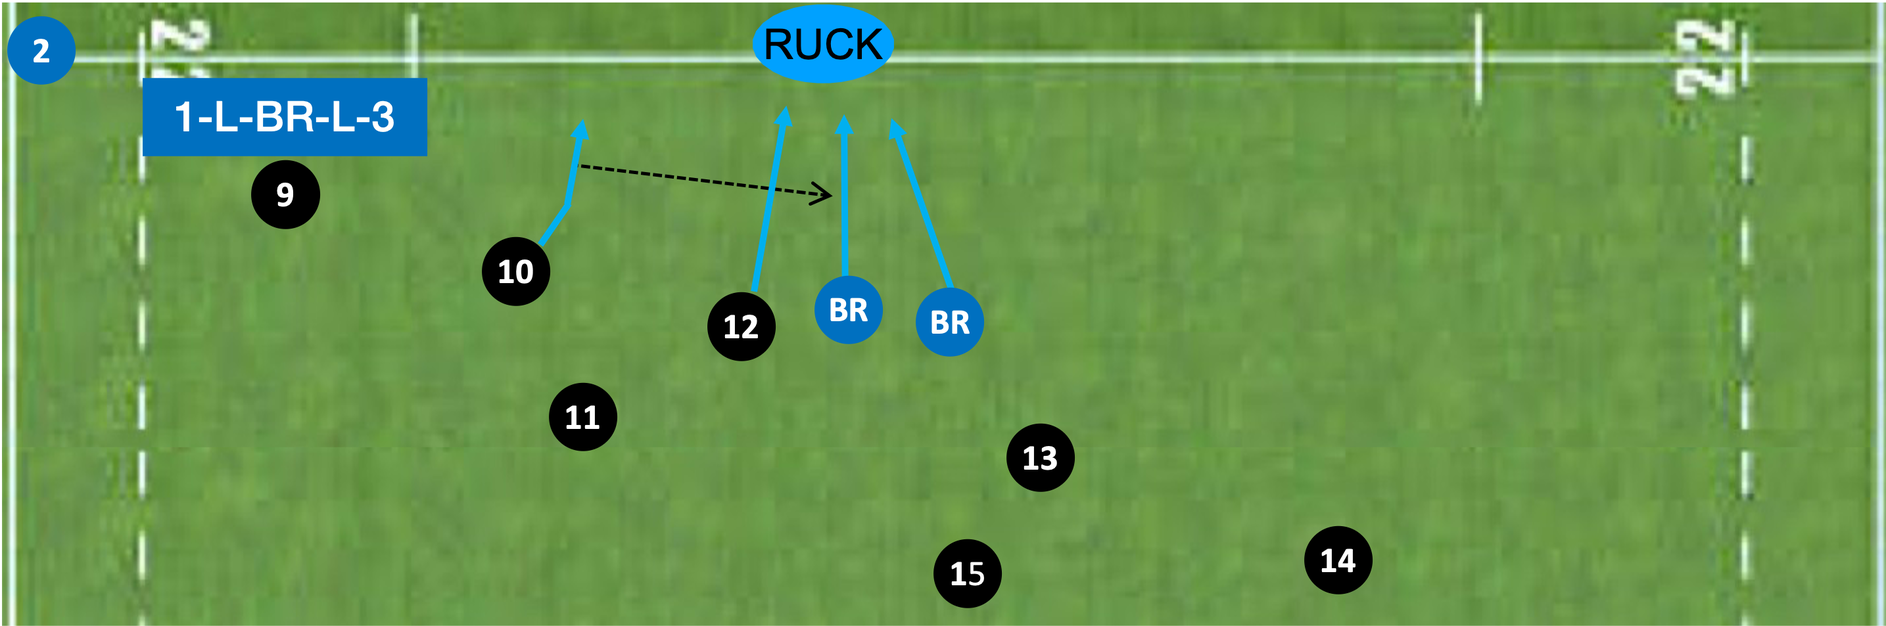
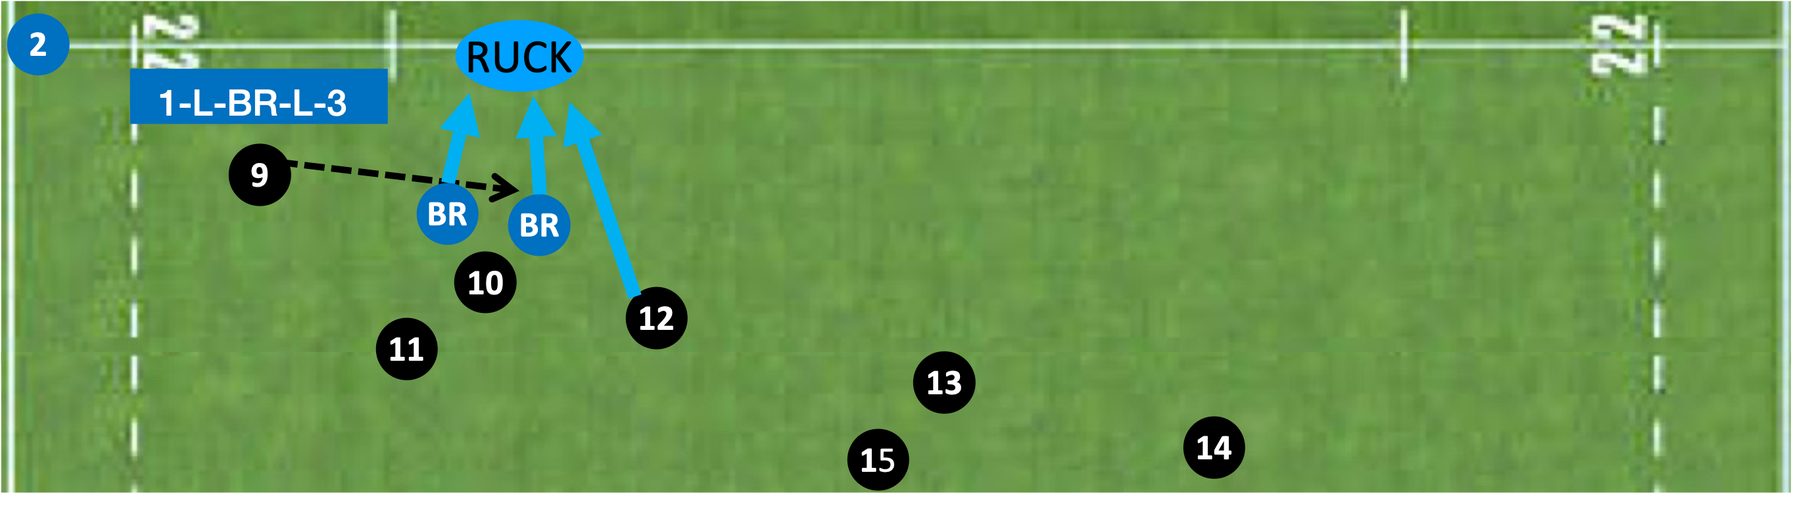
Week 1 Thursday review, the lessons it produced, and the new Rhino diagrams
- Coaches' feedback from Thu 10 Sep into the session's Review.
- Durable delivery lessons into coaching.md, activities.md and blocks.md:
  five-minute pull-out stints, spot-coaching in pairs off a running drill,
  an observing coach as a job, water breaks in the run-sheet, and doing the
  setup and the arguments on the thread before the day.
- New "Initial setup" section: the cone layout as an accordion below
  Logistics, optional, written for the first coach on the ground.
- Completed session plans are the record — improvements go forward only.
- Updated 5-man Rhino phase diagrams; web copies as JPEG (~47 KB) since the
  new artwork is photo-backed and would be ~320 KB as PNG.

diff --git a/tools/build_site.ts b/tools/build_site.ts
@@ -63,9 +63,9 @@ const DIAGRAMS: Record<string, string> = {
   "Hulk": "hulk.png",
   "Eagle": "eagle_kick.png",
   "Hawk — box kick": "hawk_box_kick.png",
-  "5-man Rhino — Phase 1": "5man_rhino_phase1.png",
-  "5-man Rhino — Phase 2": "5man_rhino_phase2.png",
-  "5-man Rhino — Phase 3": "5man_rhino_phase3.png",
+  "5-man Rhino — Phase 1": "5man_rhino_phase1.jpg",
+  "5-man Rhino — Phase 2": "5man_rhino_phase2.jpg",
+  "5-man Rhino — Phase 3": "5man_rhino_phase3.jpg",
 };
 
 /**
@@ -1009,6 +1009,15 @@ function sessionBody(md: string, images: Record<string, string>, meta: PlanMeta)
       ) +
       "</details>"
     : "";
+  // The cone layout, for whoever gets to the ground first. Optional — a plan
+  // without the section simply doesn't get the accordion.
+  const setupMd = mdSection(md, "Initial setup") || mdSection(md, "Initial Setup");
+  const setup = setupMd
+    ? '<details class="logistics"><summary>Initial setup — cones, for the first coach there</summary>' +
+      '<div class="pad-body">' +
+      mdToHtml(setupMd, images) +
+      "</div></details>"
+    : "";
   const mapSection = pitch
     ? '<details id="pitch-map" class="offscreen" hidden><summary>Where we are</summary>' +
       mdToHtml(pitch, images) +
@@ -1032,6 +1041,7 @@ function sessionBody(md: string, images: Record<string, string>, meta: PlanMeta)
   return [
     objective,
     logistics,
+    setup,
     "<h2>Run sheet</h2>",
     timeline(planSection, acts, meta.start),
     detailAccordions(detailMd, images, acts),

diff --git a/tools/theme.css b/tools/theme.css
@@ -248,6 +248,9 @@ details.logistics > summary::after {
 details.logistics[open] > summary::after { content: "\2212"; }
 details.logistics[open] > summary { border-bottom: 1px solid var(--border); }
 details.logistics .table-scroll { border: none; border-radius: 0; margin: 0; }
+details.logistics .pad-body { padding: 12px 14px; }
+details.logistics .pad-body > :first-child { margin-top: 0; }
+details.logistics .pad-body > :last-child { margin-bottom: 0; }
 
 /* Activities as accordions — collapsed, so the plan reads as a contents list. */
 .acc-tools { display: flex; gap: 8px; margin: 1em 0 0.9em; }

diff --git a/claude/coaching.md b/claude/coaching.md
@@ -7,21 +7,24 @@ Our coaching approach for this age group: how sessions are structured and run, t
 - Sessions run in **6-week themed blocks**.
 - **Every session should map back to how we say we want to play.** When designing one, be able to name which of the guiding principles in `playbook.md` the session serves. A drill that maps to nothing is a drill we don't need.
 - **Whole–part–whole applies within every single session, not just across a block.** Each session should bookend a short, focused skill fix with game-play. **Game-zone and skill-zone can be structured in any of three ways, whichever suits that session's plan best:** run them sequentially (game, then a short skill fix, then back into the game — or skill fix first, then game); run the skill zone **in parallel** as a pull-out from the game, with a coach rotating small groups out for their fix and straight back in while the game keeps going for everyone else (needs at least 2 coaches to split game/skill-zone duty — see Coaches below); or use a brief **whole-group coach intervention** — a coaching point delivered to everyone before the game starts, for something every player needs to hear once (e.g. lineout positioning), as distinct from a specialist-only skill zone (e.g. hookers on the throw) run separately. None of the three is the mandatory default; pick whichever fits the session's content and the group sizes involved. Don't front-load a block with pure skill work and save the games for later weeks — every session, from week 1 onwards, needs strong game-play, however the skill zone is structured around it.
-- **Skill zones should be short and sharp, not long isolated drilling — remember these are 13-year-olds, and isolated skill blocks get dull fast.** Keep skill-zone time tight (a matter of minutes, high-rep, clearly tied to a specific fix), whichever of the three shapes above is used.
+- **Skill zones should be short and sharp, not long isolated drilling — remember these are 13-year-olds, and isolated skill blocks get dull fast.** Keep skill-zone time tight (a matter of minutes, high-rep, clearly tied to a specific fix), whichever of the three shapes above is used. **Five minutes at a pop is the pull-out length that works** — out of the game, the fix, and straight back in, returning later for another five, rather than one long block away from everyone else.
 - **Sessions should be very active and fun.** No boring coach-talking time, no standing in queues, no long unbroken drilling — games and adaptive/conditioned play should be the majority of session time, with variety and a pace that keeps players moving and genuinely enjoying themselves, not just physically active. Use conditions and rule tweaks on the game to shape practice of the target skill (e.g. a scoring bonus for using it, a constraint that forces it) rather than relying on repetitive isolated drills to teach it.
 - **This is also how we get fit.** `playbook.md` asks us to be fitter than everyone else; we do not get there with fitness work. Every session should carry a **high cardiovascular load through constant activity that looks like a game** — sustained involvement, short resets, quick transitions between activities. **No shuttles, no laps, no conditioning for its own sake.** If players are standing still the session is failing twice, on the skill and on the fitness.
 - **Build week to week, with progression.** Sessions within a block should reuse and build on the same activities rather than starting fresh each week — e.g. the same game returns with the constraint tightened, the space reduced, or the next layer of the skill added, so players get repetition without it feeling repetitive.
 - **Less time explaining, more time doing.** Coach explanations should be as short as possible; prioritise players getting reps in over coaches talking.
 - **Coach inside the game wherever the game will carry it.** A whole-group intervention is for something every player needs to hear once and can't pick up from playing; most things are not that. **Prefer the non-intrusive intervention: coach into the stoppages the game already has** — a lineout, a restart, a team walking back — and to one or two players at a time, rather than stopping fifteen of them to talk. It costs no session time at all, and it lands while the picture is still in front of them. **Don't stack interventions back to back**; two blocks of standing still in a row is a lecture however short each one was. Freezing a moving game is a last resort, not a first.
+- **Spot-coach the worst two or three out of a drill that is already running.** In a whole-group handling drill, one coach watches for poor form and a spare coach takes those players aside for a couple of minutes while the drill keeps going for everyone else. **Take them out in pairs rather than singly** wherever the numbers and the drill allow, so nobody feels singled out. It fixes the individual without stopping the group or making the session about technique, and it costs nobody any reps. **Spare coaches coach on the run** through these drills rather than watching them — except one: **a coach deliberately standing back and observing is a job, not a spare body.** Nobody running an activity can see what the coach with nothing in their hands can.
+- **Whoever is coordinating the session should not also be the one starting an activity.** Hand the drill to another coach and keep the coordinating hands free — otherwise the activity that gets least coaching is the one running while the coordinator is looking at the next thing.
 - **Demonstrate with players, not coaches, wherever we can.** Pick a player (or a pair) out of the group, brief them in a few words, and let the squad watch them do it. A coach demo shows an adult body at adult speed doing something a 13-year-old then has to translate; a player demo shows the thing at the size and pace they will actually meet it, and it tells you immediately whether the instruction was understood — if the demo player has it wrong, the explanation was wrong. It also keeps the coach's voice out of the middle of the group, which is the point of *less time explaining*. Pick the demonstrator on purpose: someone who will get it roughly right is the aim, not always the same confident player, and never someone who would hate being watched. Rotate it around the squad over a block. Coaches still demo where a player genuinely can't — an unsafe or unfamiliar contact position, or where the coach is standing in as opposition rather than modelling the skill.
+- **Transitions and water breaks are session time, so plan them.** Put the water breaks in the run-sheet — on the back of a break the squad already gets, like a team swap at half time — rather than calling them ad hoc, and start each new activity fast: the markings out in advance, the groups known, the brief in a sentence. Stop/start between blocks is where a session quietly loses ten minutes.
 - **Thursdays follow a consistent opening format** (player-led warm-up, then essential handling/tackling skills) before the rest of the session — see `age-group.md` — Training & Fixtures.
 - **Every session includes passing, tackling, or both.** They are the squad's two weakest foundations (see `age-group.md`) and they run through the whole season rather than being covered in a block and left behind. On Thursdays this is the fixed essential-skills slot; on Sundays build it in wherever it fits.
 - **While the ground is hard, tackle work needs mats** — or the softest ground available. Mats are not on the equipment list below; check they can be got hold of before planning a tackle-heavy session, and drop the volume rather than tackle onto bare ground.
 - **Always run the two-minute contact warm-up before any contact.** See Contact warm-up below. It applies to every piece of contact work, closed skills included — tackle technique, scrum engage, contact games — on Sundays and Thursdays alike. The player-led warm-up (see `warmup.md`) finishes on the pads, which warms the body for contact — but a shield is not a tackle, so these two minutes still run before any tackling.
 - **One voice per segment.** Whenever the whole group is being coached at once, **one coach talks and the others hold**. Enthusiasm is not the problem — four or five constructive side-bar conversations during the same segment is, because the group stops knowing who to listen to. This matters more for us than most squads: predictable, single-source instruction is one of the things that keeps the cognitive load down for our neurodiverse players (see `age-group.md`).
-- **Every segment has one objective, and you stick to it.** If the segment is team lineout positioning, it is not the moment to fix an individual's throwing action, however tempting. Note it, and take it to that player in the next skill zone or at the end. Coaches should know each segment's objective before the session starts.
+- **Every segment has one objective, and you stick to it.** If the segment is team lineout positioning, it is not the moment to fix an individual's throwing action, however tempting. Note it, and take it to that player in the next skill zone or at the end. Coaches should know each segment's objective before the session starts. **The session's own focus is the harder one to hold** — an attacking move run inside a defence-focused session pulls every coach's eye onto the attack. Say the session focus out loud to the coaching team at the start, and again at each segment.
 - **Pick the session's two teams at the warm-up, and split along that line all night.** Two roughly equal groups, each with a sensible number of forwards and backs, **one side in bibs or headbands** — done while the players are warming up, so it costs no session time. Everything built on the teams then splits the same way — the forwards packs, a team run-through, the game itself — so no segment starts with two minutes of picking sides. A handling drill that only needs two equal groups is not one of them; split that however suits the space. **For small-sided games, halve each team rather than picking again** — half the bibbed team against half the unbibbed one, twice over, so every game still has a bibbed side against an unbibbed one and two colours cover four teams.
-- **Agree who is doing what before the session.** Assign roles in the few minutes before the start, or during the player-led warm-up — that window works well and costs nothing. With several coaches out, unassigned is the same as everyone doing a bit of everything.
+- **Agree who is doing what before the session.** Assign roles in the few minutes before the start, or during the player-led warm-up — that window works well and costs nothing. With several coaches out, unassigned is the same as everyone doing a bit of everything. **Do the rest of it on the coaches' thread, not on the grass** — share the starting setup ahead of time, so it can go out while people are still arriving, and call out anything likely to generate a coaching discussion (which shape we are running, off 9 or off 10) beforehand. The discussion is worth having; it is just worth having before the players are standing there.
 - **Thursdays are contact-light, not no-contact.** Closed skills in the skill zone (e.g. tackle technique, scrum engage) are fine at full contact — that's small-group, controlled, coach-supervised work. But the main adaptive game on Thursdays should mostly be **touch-only**, either touch throughout or touch that progresses to full contact for roughly the last 10 minutes. Full-contact adaptive games are more of a Sunday thing, where there's more space and time to manage it properly.
 
 ## Contact warm-up

diff --git a/CLAUDE.md b/CLAUDE.md
@@ -76,12 +76,15 @@ That table lives in `PITCH_ZONES` in `tools/build_site.ts`, so a plan only ever 
 - **Session details cells are one short fact each.** Caveats go in Notes.
 - **Activities entries are notes, not prose.** They are read seconds before running the thing, and Description, Coaching Points and Progressions are what the Details modal shows. Give the facts — the numbers, the sequence, the conditions, the cues — and stop. **Cut every clause that explains why:** no *"the point is…"*, no *"…here on purpose"*, no *"that is what X is for"*, no restating the session's intent. Prefer a numbered sequence or a bulleted list to a paragraph. Write each Progression and Adaptation as one line, condition then response — *"Attack getting out too easily: narrow the channel."* If a rationale genuinely needs recording, it belongs in `claude/blocks.md` or the session's Review, not here.
 
+**A session that has happened is a record — don't edit it.** Once a session has run, its file in `plans/` stays as it was, plus its Review. **Improvements to the way we plan and run sessions go into the next plan forward, never back into completed ones**: a new template section, a better way of writing a block, a format that worked — apply them from the next session on. The archive is what we actually did on the day, and it stops being that the moment it gets tidied up. The Review is the one thing added after the fact.
+
 **Session plan template.** Every file in `plans/` follows this structure. **The build reads it structurally, not just as prose** — the headings and the shape of the two tables are a contract, and the notes below each part say what depends on them. Getting one wrong fails the build rather than quietly producing a broken page.
 
 | Markdown | Becomes, on the page |
 |---|---|
 | `## Session details` — the **Session objective** row | an **Objective** heading at the top of the page, above everything else |
 | `## Session details` — the other rows | the collapsed **Logistics** accordion, with the pitch map inside it, plus the generated **Weather** and **Sunset** rows |
+| `## Initial setup` | a second collapsed accordion directly below Logistics — the cone layout, for the first coach on the ground |
 | `## Plan` — the **first** table | the **timeline**: one block per row, rows sharing a start time drawn side by side |
 | `## Plan` — anything after that table | kept, rendered below the timeline (this is where a coach allocation goes) |
 | `## Activities` — each `### ` entry | a **collapsed accordion**, and the source of its timeline block's setup/cues and Details modal |
@@ -104,14 +107,15 @@ That table lives in `PITCH_ZONES` in `tools/build_site.ts`, so a plan only ever 
    - **Sunset** — see above, gated on `eveningAtClub`.
 
    The map does not sit open on the page: it becomes a **Map** button beside the Location row, opening the club map with a `U14M` marker pinned on that zone. A new week only means changing the zone code. Zone codes are the club's own — `1a`, `1b`, `2a`, `2b`, `3a`, `3b`, `4a`, `4b` — and are listed in `PITCH_ZONES` in `tools/build_site.ts`; an unknown code fails the build. Keep the caption free of markdown links (square brackets in the caption break the image match).
-2. **Plan** — a three-column table, one row per activity: start time + duration, Activity, and a one-line summary. This becomes the timeline, so the first cell is load-bearing:
+2. **Initial setup** — **the cone layout, and nothing else.** A short bulleted list of what goes out before the players arrive: which cones, how many, where, what spacing, and where the shields/mats/machine sit if they define a position. **No drills, no explanation, no reasons** — the coach reading it is on an empty pitch with a bag of cones and fifteen minutes. Optional: a plan without the section simply doesn't get the accordion.
+3. **Plan** — a three-column table, one row per activity: start time + duration, Activity, and a one-line summary. This becomes the timeline, so the first cell is load-bearing:
 
    - It **must** read `+<start>, <n> min` — e.g. `+7, 13 min`. A row that doesn't fails the build.
    - **The page shows real clock times**, not `+7`. Set **`start`** in `PLAN_META` to the time `+0` means (`"18:45"`). The markdown stays relative, so moving a session is one field, not a rewritten table. Without `start` the page falls back to showing `+7`.
    - **Rows sharing a start time are drawn side by side** as parallel blocks. That is how the page shows the squad splitting; nothing else marks it.
    - An italic parenthetical after the time — `+7, 13 min *(parallel pull-out)*` — becomes a tag on the block.
    - Only the **first** table in this section is read as the run sheet, so a coach allocation or any other table can follow it.
-3. **Activities** — a `### ` entry per activity. Each becomes a collapsed accordion **and** feeds its block on the timeline, so write them for a coach who is about to run the thing:
+4. **Activities** — a `### ` entry per activity. Each becomes a collapsed accordion **and** feeds its block on the timeline, so write them for a coach who is about to run the thing:
 
    - **`**Groups:**`** comes **first, directly under the `### ` heading**, and says how many children and how they are split — and nothing else. **A few words: "Groups of five", "All forwards", "Two pitches — 7 v 7 on each", "Whole squad, one circle".** It is lifted onto the timeline block as *Groups*, ahead of the setup, because splitting the squad is the first thing that has to happen and the slowest to fix once it is wrong. Unlike Setup and Coaching Points it is used **whole**, not first-sentence-only, so keep it to one short phrase. Every entry gets one; the generated warm-up entry has its own.
    - **`**Setup:**`** and **`**Coaching Points:**`** are lifted onto the timeline block as *Set up* and *Call* — **first sentence only**, so lead with the instruction and put the caveats after it. A bare cross-reference (`see \`activities.md\`.`) is skipped, so don't make it the whole first sentence.
@@ -127,8 +131,8 @@ That table lives in `PITCH_ZONES` in `tools/build_site.ts`, so a plan only ever 
    - **Progressions** — a bulleted list of ways the activity could be advanced, this week or in later weeks. List the options; it's the coach's call on the night which of them (if any) to apply, and how many.
    - **Adaptations** — a bulleted list of ways to vary the drill on the fly to get a different outcome — space, group size/numbers, player pairing, speed/tempo, etc. Unlike Progressions (which build the skill forward over time), Adaptations are about tuning today's version of the drill to the group actually in front of the coach.
    - **Diagram** and/or **Video example(s)**, where useful — see below.
-4. **Review** — added *after* the session: what actually happened, from the coaches' feedback. What worked, what to change, and anything carried forward into the next weeks. Keep the durable lessons out of here and in the right doc — a coaching-delivery lesson belongs in `claude/coaching.md`, a playing-style one in `claude/playbook.md`, a next-week consequence in `claude/blocks.md` — and leave the session-specific detail here.
-5. **Notes** — a closing free-text section for caveats, placeholders (e.g. a call or system not yet finalised), and anything else worth flagging to whoever runs the session.
+5. **Review** — added *after* the session: what actually happened, from the coaches' feedback. What worked, what to change, and anything carried forward into the next weeks. Keep the durable lessons out of here and in the right doc — a coaching-delivery lesson belongs in `claude/coaching.md`, a playing-style one in `claude/playbook.md`, a next-week consequence in `claude/blocks.md` — and leave the session-specific detail here.
+6. **Notes** — a closing free-text section for caveats, placeholders (e.g. a call or system not yet finalised), and anything else worth flagging to whoever runs the session.
 
 **Diagrams, video, and sharing.** Diagrams should be produced as actual images (e.g. a simple PNG sketch), not plain-text/ASCII art — text diagrams don't render usefully once the plan is shared outside the project. The markdown file in `plans/` stays the authoritative working source (image referenced by filename). When a plan is ready to hand to the coaching group, export it as:
 

diff --git a/plans/block1-week2-sun.md b/plans/block1-week2-sun.md
@@ -13,6 +13,17 @@
 
 ![Pitch 2, right half. Check pitch.twrfc.com on the day in case it moves.](pitch:2b)
 
+## Initial setup
+
+Working from the try-line end of the half, out:
+
+- **Warm-up line** — a line of cones across the full width, 20m out from the try-line. Ruck shields stacked at the middle of it.
+- **Passing lines** — second cone colour, between the try-line and the warm-up line: two sets of three lines (A, B, C), 5m between lines, 10m between the sets.
+- **Tackle diamonds** — two diamonds side by side on the flattest ground clear of the passing lines, four cones each, 5m sides. Mats inside them.
+- **Scrum marks** — two, 15m apart, on the flattest ground on the half. A cone on each mark and one 5m behind it. A third mark in midfield, with a line of four cones running from it to the touchline, 5m apart.
+- **Game pitch** — the full half: a cone in each corner, one on each 5m line, one either side at halfway.
+
+
 ## Plan
 
 | Start + duration | Activity | Focus |
@@ -24,7 +35,9 @@
 | +21, 27 min *(forwards)* | Scrum — shape, then positions, then the whole scrum | Tower of power, positional jobs in three groups, then forming it and the shove |
 | +21, 27 min *(backs)* | **DSP** + line-pressure defence off scrum | Set before the ball leaves the base — both sides of it |
 | +48, 5 min | Scrum to **DSP** — join it up | One scrum, both halves, unopposed |
-| +53, 32 min | Main game: 15-a-side, scrum restarts | Everything live — **Bang**, the scoreboard, the scrum as the only set piece |
+| +53, 15 min | Main game: 15-a-side, scrum restarts | Everything live — **Bang**, the scoreboard, the scrum as the only set piece |
+| +68, 2 min | Water and team swap | The session's one break — taken on the whistle, not when it drifts |
+| +70, 15 min | Main game: 15-a-side, second half | Straight back on; conditions stay as they were |
 | +85, 5 min | Cool-down / close | Recap the scrum sequence; pick next week's warm-up leader |
 
 *The allocated slot is 10:45–12:30 (105 min). **U12M are on our half until 10:30**, so the whole setup — warm-up cones, two diamonds, mats, the scrum marks, the game — goes out in that fifteen-minute changeover. If we start late, take it out of the game block; not out of the scrum block, which is the session.*
@@ -184,7 +197,7 @@ Rules unchanged: pummelling is an arm battle — no lifting, no takedowns, no tw
 
 **Coaching Points:** **Bang** off the scrum and in open play. Spacing, numbering up, the shuffling retreat, talk. Two seconds at the ruck.
 
-**Setup:** one game across the full half-pitch. **Every restart is a scrum** — knock-on, turnover or try. Ball into touch is a quick tap on the 5m, not a lineout. In the game the scrums are **set properly but pushed passively** — the contest happened in the scrum block. Thirty-two minutes, with a **team swap and water at about 11:55**.
+**Setup:** one game across the full half-pitch. **Every restart is a scrum** — knock-on, turnover or try. Ball into touch is a quick tap on the 5m, not a lineout. In the game the scrums are **set properly but pushed passively** — the contest happened in the scrum block. Two halves of fifteen minutes, with the **team swap and water between them**.
 
 **Description:** starts at **Presentation Touch** — on a touch the carrier goes down, turns, and presents long for the support player to pick (see `activities.md`). **Step up to full contact for the last ten minutes if the ground allows it**; that is a call on the day, not a plan.
 
@@ -216,6 +229,8 @@ Conditions, cumulative, added in this order and left in:
 - **Defence lives in the game this week, not beside it.** No standalone defensive drill; the 15-a-side game and its scoreboard are where line-speed and communication get worked.
 - **One game, not two.** A contested scrum plus a 9 is nine players, so a small-sided game can't carry one (see `activities.md`).
 - **One voice per segment.** Seven coaches are out, which is how it slipped in Week 1. The scrum block is where it will slip again — **one coach per pack**, and the safety call comes from that coach only. Agree the segments during the warm-up.
+- **Share the starting setup on the coaches' thread beforehand** — what goes where in the changeover, and who is on what. Everyone arrives hot on a Sunday; the prep that hasn't been shared doesn't happen.
+- **Call out anything debatable before the day.** If a shape or a call is going to start a coaching discussion, have it on the thread, not with thirty players standing waiting.
 - **Get the kit out fast.** U12M are on our half until 10:30 for a 10:45 start: cones, two diamonds, mats, the scrum marks. Two or three coaches on setup while the rest greet players.
 - **Repeated from last week**, as the coaches asked: the same warm-up, the same diamond, the same passing game, **Bang** and Springbok Touch again from Thursday.
 - **Pick next week's warm-up leader at the close**, not on the day (see `warmup.md`).

diff --git a/plans/block1-week1-thur.md b/plans/block1-week1-thur.md
@@ -123,11 +123,11 @@ Bonus to attack for a clean lineout catch leading to a try. Springbok Touch is t
 
 Walk it twice, then at pace. Point at both ruck positions before the ball moves.
 
-![5-man Rhino — Phase 1](claude/images/web/5man_rhino_phase1.png)
+![5-man Rhino — Phase 1](claude/images/web/5man_rhino_phase1.jpg)
 
 *Phase 1 — off the top to 9, extras and 12 set ruck 1.*
 
-![5-man Rhino — Phase 2](claude/images/web/5man_rhino_phase2.png)
+![5-man Rhino — Phase 2](claude/images/web/5man_rhino_phase2.jpg)
 
 *Phase 2 — forwards fold round for ruck 2.*
 
@@ -174,7 +174,7 @@ Walk it twice, then at pace. Point at both ruck positions before the ball moves.
 4. **Backs attack the open** off ruck 2.
 5. **Hooker and props stay behind** for width and the blind.
 
-![5-man Rhino — Phase 3](claude/images/web/5man_rhino_phase3.png)
+![5-man Rhino — Phase 3](claude/images/web/5man_rhino_phase3.jpg)
 
 *Phase 3 — backs attack the open.*
 
@@ -235,6 +235,38 @@ How to coach it:
 **Progressions:**
 - Call the target as the hooker starts their routine.
 - A defender's hands over the target, to force height.
+
+## Review — what actually happened
+
+*Coaches' feedback after the session, 10 Sep.*
+
+**What worked**
+
+- **They got it better than expected.** The material landed ahead of where we pitched it.
+- **Splitting and coming back together worked.** Four small groups out of the two teams, then back into one game, with no time lost picking sides.
+- **Pulling the hookers out five minutes at a pop** worked — use that format again rather than one long block away from the game.
+- **Spot-coaching the worst passers 1-on-1 during Crazy Passing.** Bev took a couple of minutes with them while the drill ran; do it again.
+- **Fewer side-bar conversations, and the coaches' voices were more focused.** Clarity on who was doing what, and small groups, both helped.
+
+**Work-ins**
+
+- **We all arrived hot**, so pre-session prep was compressed. Little we can do about the arrival — share the starting setup more clearly beforehand instead.
+- **Still too stop/start on transitions and water breaks.** Put the water breaks in the plan, and start new activities fast.
+- **The off-9 vs off-10 discussion was good, but belonged before the session.** Anything likely to generate discussion gets called out on the coaches' thread first.
+- **Crazy Passing can carry more coaching.** Spare coaches coaching on the run through it. Whoever is coordinating the session shouldn't also be the one getting it started.
+- **Defence is hard to keep in focus while an attacking lineout move is running.** Keep reminding ourselves what the session's focus is.
+
+**From Bev**
+
+- **A spare coach standing back and observing earns its place** — things get spotted that nobody running an activity can see.
+- **Pull players out in pairs, not singly**, where the numbers and the drill allow, so nobody feels singled out.
+
+**From Steve**
+
+- **Principles of play alongside the session objective.** The session had its own objectives — defensive line speed, then structure in attack and defence off the lineout — and we should also take the chance to re-emphasise our principles of play.
+- **Go forward stopped the moment contact came in.** Hesitancy crept in. Excusable at re-introduction, but it needs coaching out of them.
+- **The main game is where go forward is paramount**, in attack and in defence, and it is the moment to draw their attention back to the principles they have been taught in the preceding 60 minutes.
+- **Kit — Jeff:** at least 15 actual bibs, so the teams contrast and we can follow them.
 
 ## Notes
 

diff --git a/claude/blocks.md b/claude/blocks.md
@@ -33,12 +33,19 @@ Note: the two Kent League fixtures in this block (27 Sep, 11 Oct) are matches, n
 - **Tackle technique carries through the season**, not just Week 1 — the diamond worked and should keep coming back. Passing and tackling are now a standing per-session requirement (see `coaching.md`), and while the ground is hard the tackle work may need mats.
 - **Lineout held their attention** and overran its slot, so there is appetite for the **B/W/G** calls. They are **not** in Week 2's Sunday, which is given over to the scrum — they still need a week.
 
+**Carried forward from Week 1 (Thu 10 Sep)** — see the session's review in `block1-week1-thur.md`:
+
+- **They took the lineout material faster than expected.** Pitch the next layer accordingly rather than re-teaching the shape from the bottom.
+- **The delivery formats that worked are now standing practice** (see `coaching.md`): split the two teams into small groups and rejoin, pull specialists out in five-minute stints, and spot-coach the worst two or three off the side of a running drill — in pairs, so nobody feels singled out. A spare coach standing back to observe is a job in its own right.
+- **Run-sheets carry their water breaks**, and transitions get started fast — the session was still more stop/start than it should be.
+- **The pre-session thread does the setup and the arguments.** Share the starting setup, and call out anything likely to generate coaching discussion — the off-9 vs off-10 question came up on the pitch and was better had beforehand.
+
 ### Session list
 
 | Week | Date | Session | Run-sheet | Core | Defence | Set-piece (forwards) | Backs | Position skills |
 |---|---|---|---|---|---|---|---|---|
 | 1 | Sun 6 Sep | Training | `block1-week1-sun.md` | Tackle | Blitz, line-org | Lineout — where to stand, laws | Defensive alignment (Continuous Defence) while forwards are in the lineout zone | Hooker lineout throw |
-| 1 | Thu 10 Sep | Training | `block1-week1-thur.md` *(draft)* | Passing | Blitz, line-org | Lineout — where to stand (reinforced) | Defensive alignment, continued | Hooker lineout throw |
+| 1 | Thu 10 Sep | Training | `block1-week1-thur.md` | Passing | Blitz, line-org | Lineout — where to stand (reinforced) | Defensive alignment, continued | Hooker lineout throw |
 | 2 | Sun 13 Sep | Training | `block1-week2-sun.md` | Tackle | Blitz, line-org | Scrum — 8-man setup, contested from the start | DSP + line-pressure defence off scrum | 9 + hooker scrum strike, back-row ball control |
 | 2 | Thu 17 Sep | Training | **Needed** | Passing | Blitz, line-org | Scrum — position/technique, non-contested | Exit kicks — introduce (technique, then kick + chase/regather) | 9 + hooker scrum strike, back-row ball control |
 | 3 | Sun 20 Sep | Training | **Needed** | Tackle | Ruck-defence | Defending the lineout — pressure on 9 & 10 | Defending against kicks (system TBC) | — |

diff --git a/claude/activities.md b/claude/activities.md
@@ -71,6 +71,7 @@ Quick reference for picking a game to match the session's contact-level target (
 | Description | Ball zig-zags down the lines: A1 passes to B1, B1 to C1, C1 to B2, B2 to A2, A2 to B3, and so on — each player filling in at the back of the line they just passed to (or received into) once they've exited. For "crazy," add a second ball into the pattern at the same time. |
 | Coaching Points | General handling cues — elbow up, hands out, catch early, etc. — plus communication and awareness (especially once a second ball is added). |
 | Adaptations | Good for warming hands up and waking players up early in a session; add the second ball once the basic pattern is running smoothly to raise the awareness demand. |
+| Coaching it | Watch for poor passing form and hand the worst two or three to a spare coach for a couple of minutes off to the side, in pairs rather than one at a time, while the drill keeps running. Spare coaches coach on the run through the rest. |
 
 ## Game-zone
 
@@ -254,4 +255,6 @@ Not standalone activities, but reusable ways of structuring a session that came 
   - **If the game is rehearsing the shape off the set piece**, run **one game at as close to 15 a side as the numbers allow**, even where the numbers would comfortably make two.
   - **If the set piece is only the restart mechanism** — a clean start to every phase, or the way a turnover is cashed in — small-sided games are fine, but **shorten the line to three, or two** (the law minimum is two a side, see `laws.md`) so there is still a backline outside it.
   What never works is a full-size line on a small-sided team.
+- **Pull-outs in five-minute stints, not one long block:** a specialist group (e.g. the hookers) comes out of the main activity for five minutes, goes back in, and comes out again later. They keep their game time and the fix gets revisited rather than front-loaded.
+- **Pull-out off the side of a running drill:** in a whole-group handling drill, a spare coach takes the two or three with the worst form for a couple of minutes while the drill carries on for everyone else. **In pairs where the numbers allow**, so nobody feels singled out. Fixes the individual without stopping the group.
 - **Scenario problems dropped into a live game:** e.g. "defending your own 5m," "defensive scrum on the 22," "attacking scrum 10m out" — presented as a problem for the players to solve themselves rather than a lecture. Keep any coach intervention very short (~30 seconds) and from one voice, to avoid it becoming talky and dull.
